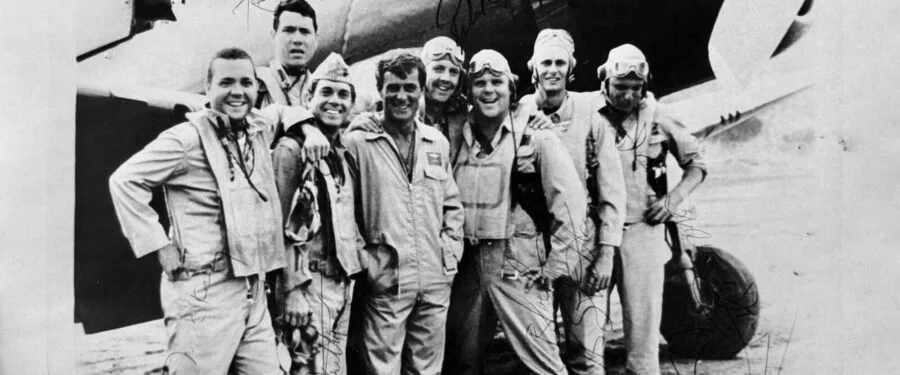
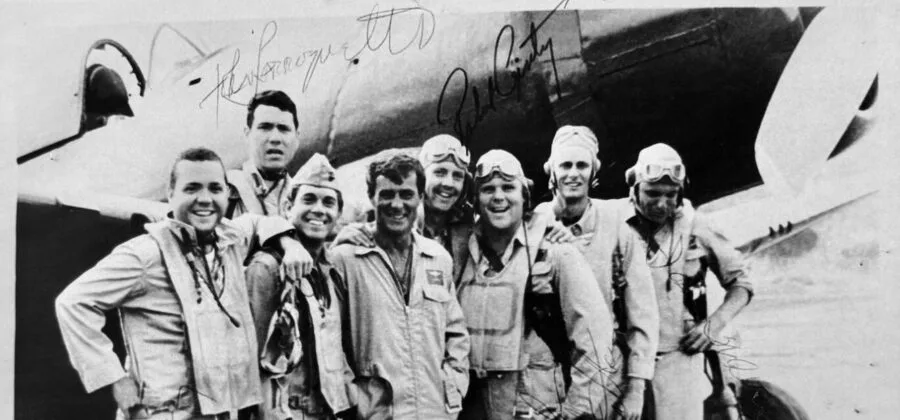
Header /partenaires : têtes plus coupées
Recadrage avec plus d'espace au-dessus des visages, et nouvelle option
'position' du hero (object-position) : le hero rogne en cover et la
barre de navigation passe sur le haut de l'image.

Claude-Session: https://claude.ai/code/session_01BP87KeRkhuBtApZZkC115X

diff --git a/site/inc/hero.php b/site/inc/hero.php
@@ -26,6 +26,13 @@ $classesHero = 'hero'
     . ($variante ? ' hero--' . preg_replace('/[^a-z-]/', '', $variante) : '');
 
 /** Affiche un element : modifiable si une cle est fournie, brut sinon. */
+/* Cadrage vertical de la photo ('position' => 'center 15%') : le hero
+   rogne l'image en object-fit: cover, et la barre de navigation passe
+   par-dessus le haut -- utile quand le sujet (des visages) est en haut. */
+$stylePosition = !empty($h['position'])
+    ? 'object-position:' . preg_replace('/[^a-z0-9% .-]/', '', (string) $h['position'])
+    : null;
+
 $rendu = static function (string $champ, string $type = 'court') use ($h): string {
     $valeur = (string) ($h[$champ] ?? '');
     $cle    = $h['cle_' . $champ] ?? null;
@@ -45,10 +52,11 @@ $rendu = static function (string $champ, string $type = 'court') use ($h): strin
           'class' => 'hero__image',
           'alt' => (string) $h['alt'],
           'fetchpriority' => 'high',
+          'style' => $stylePosition,
         ]) ?>
   <?php else: ?>
     <img class="hero__image" src="<?= e((string) $h['image']) ?>"
-         alt="<?= e((string) $h['alt']) ?>" fetchpriority="high">
+         alt="<?= e((string) $h['alt']) ?>" fetchpriority="high"<?= $stylePosition ? ' style="' . e($stylePosition) . '"' : '' ?>>
   <?php endif; ?>
   </div>
 

diff --git a/site/partenaires.php b/site/partenaires.php
@@ -8,6 +8,7 @@ $hero = [
   'page'         => true,
   'cle_image'    => 'partenaires.hero.image',
   'image'        => '/assets/img/partenaires-hero-pilotes.jpg',
+  'position'     => 'center 15%',
   'alt'          => 'Photo souvenir en noir et blanc d’un équipage de pilotes devant leur avion',
   'titre'        => 'Partenaires',
   'cle_titre'    => 'partenaires.hero.titre',
